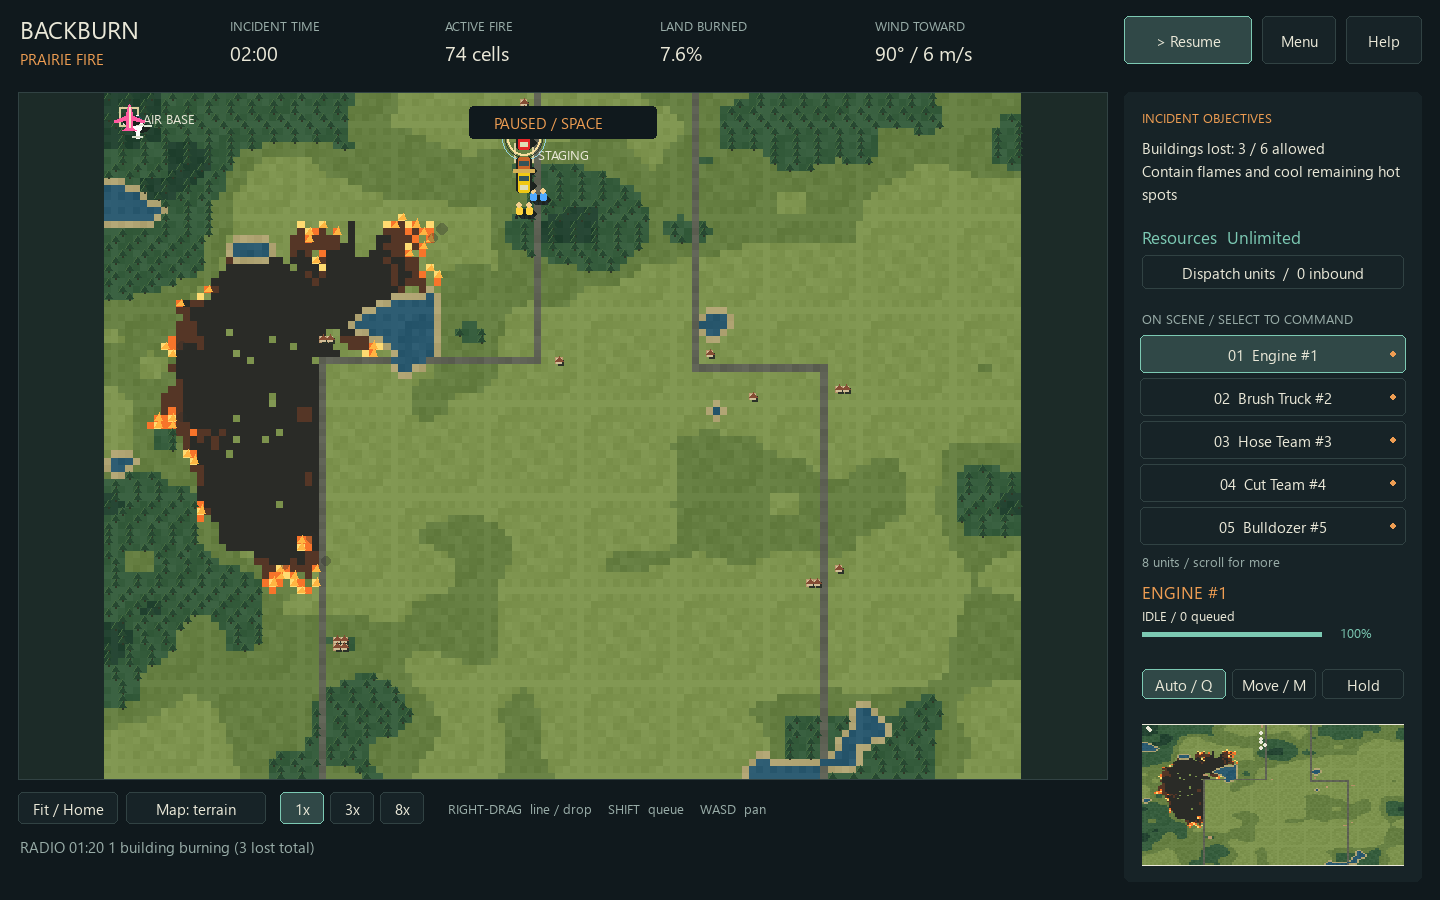
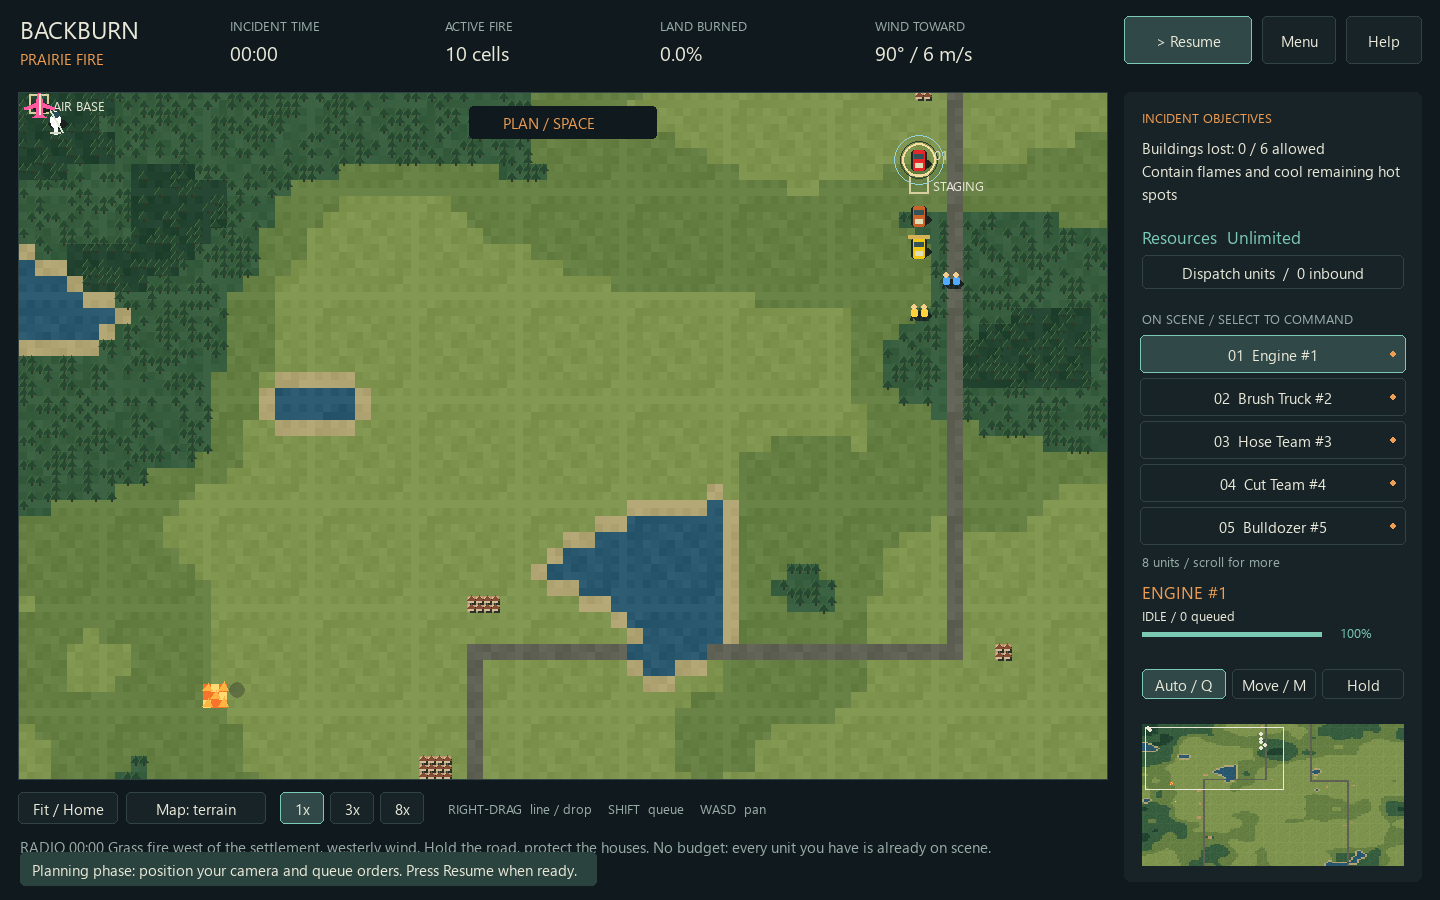
Give players planning time, stable trees and larger maps (#8)
* Slow incident pacing, keep trees anchored and expand tactical maps

* Cull off-screen scenery before drawing expanded maps

---------

diff --git a/backburn/game.py b/backburn/game.py
@@ -13,6 +13,7 @@ import pygame
 
 from . import __version__
 from .art import details, terrain_surface, unit_icon
+from .campaign import expanded_scenario
 from .config import TERRAIN, UNITS
 from .render import OVERLAYS
 from .scenario import load_scenario
@@ -27,6 +28,7 @@ INK = (234, 232, 216)
 MUTED = (153, 173, 168)
 ORANGE = (238, 157, 82)
 TEAL = (124, 201, 179)
+NORMAL_TICKS_PER_SECOND = 1
 MISSIONS = ["prairie_fire", "stranded_hikers", "refinery_row", "wall_of_fire"]
 DESCRIPTIONS = [
     "Hold the road. Protect the settlement.",
@@ -63,7 +65,9 @@ class Game:
         self.page = "menu"
         self.modal = None
         self.mission = 0
-        self.scenarios = [load_scenario(scenario_dir() / f"{key}.json") for key in MISSIONS]
+        self.scenarios = [
+            expanded_scenario(load_scenario(scenario_dir() / f"{key}.json")) for key in MISSIONS
+        ]
         self.previews = [terrain_surface(Simulation(s)) for s in self.scenarios]
         self.settings = read_json(data_dir() / "settings.json", {"sound": True})
         self.progress = read_json(data_dir() / "progress.json", {})
@@ -146,6 +150,23 @@ class Game:
         self.zoom = min(self.viewport.w / g.w, self.viewport.h / g.h)
         self.cam = [(g.w - self.viewport.w / self.zoom) / 2, (g.h - self.viewport.h / self.zoom) / 2]
 
+    def tactical_camera(self):
+        self.zoom = 8.0
+        x, y = self.sim.world.staging
+        if self.sim.scenario.ignitions:
+            fire = min(self.sim.scenario.ignitions, key=lambda p: math.hypot(p["x"] - x, p["y"] - y))
+            x, y = (x + fire["x"]) / 2, (y + fire["y"]) / 2
+        self.cam = [x - self.viewport.w / self.zoom / 2, y - self.viewport.h / self.zoom / 2]
+        self.clamp_camera()
+
+    def clamp_camera(self):
+        for axis, (size, visible) in enumerate(
+            ((self.sim.grid.w, self.viewport.w / self.zoom), (self.sim.grid.h, self.viewport.h / self.zoom))
+        ):
+            self.cam[axis] = (
+                (size - visible) / 2 if visible >= size else min(size - visible, max(0, self.cam[axis]))
+            )
+
     def to_screen(self, x, y):
         return (
             round(self.viewport.x + (x + 0.5 - self.cam[0]) * self.zoom),
@@ -162,7 +183,9 @@ class Game:
         return (min(self.sim.grid.w - 1, max(0, p[0])), min(self.sim.grid.h - 1, max(0, p[1])))
 
     def start(self, sandbox=False):
-        self.sim = Simulation(load_scenario(scenario_dir() / f"{MISSIONS[self.mission]}.json"))
+        self.sim = Simulation(
+            expanded_scenario(load_scenario(scenario_dir() / f"{MISSIONS[self.mission]}.json"))
+        )
         self.sandbox = sandbox
         if sandbox:
             self.sim.scenario.objectives = {"win_on_contained": False}
@@ -181,7 +204,7 @@ class Game:
         self.editor_tool = None
         self.order_mode = "AUTO"
         self.overlay = 0
-        self.fit()
+        self.tactical_camera()
 
     def save(self, name="quicksave.bbsave"):
         try:
@@ -220,7 +243,8 @@ class Game:
             self.start(True)
         elif action == "begin":
             self.modal = None
-            self.paused = False
+            self.paused = True
+            self.say("Planning phase: position your camera and queue orders. Press Resume when ready.")
         elif action == "close":
             self.modal = None
         elif action == "pause":
@@ -636,10 +660,12 @@ class Game:
             self.viewport.h / self.zoom / self.sim.grid.h * self.minimap.h,
         )
         pygame.draw.rect(self.screen, INK, vr, 1)
-        for u in roster:
+        for u in self.sim.world.units:
+            if not u.alive or u.rescued or u.state == ABOARD:
+                continue
             pygame.draw.circle(
                 self.screen,
-                INK,
+                ORANGE if u.is_civilian else INK,
                 (
                     round(self.minimap.x + u.x / self.sim.grid.w * self.minimap.w),
                     round(self.minimap.y + u.y / self.sim.grid.h * self.minimap.h),
@@ -672,7 +698,7 @@ class Game:
             )
         if self.paused and not self.modal:
             pygame.draw.rect(self.screen, BG, (self.viewport.centerx - 94, 106, 188, 33), border_radius=4)
-            self.text("PAUSED / SPACE", self.viewport.centerx - 69, 112, 15, ORANGE)
+            self.text("PLAN / SPACE", self.viewport.centerx - 60, 112, 15, ORANGE)
 
     def draw_modal(self):
         if not self.modal:
@@ -698,7 +724,7 @@ class Game:
                 else "Select a unit in the roster. Right-click to move or attack. Right-drag a line with crews to cut a firebreak, or with aircraft to drop water. Pause any time to plan."
             )
             self.wrap(tip, x, max(bottom + 25, y + 275), 644, 17)
-            self.button("BEGIN OPERATION / ENTER", (x, rect.bottom - 78, 652, 46), "begin", True)
+            self.button("OPEN MAP TO PLAN / ENTER", (x, rect.bottom - 78, 652, 46), "begin", True)
         elif self.modal == "help":
             self.text("FIELD GUIDE", x, y, 32)
             lines = [
@@ -801,11 +827,12 @@ class Game:
         self.cam[0] += (keys[pygame.K_d] - keys[pygame.K_a]) * dt * 350 / self.zoom
         self.cam[1] += (keys[pygame.K_s] - keys[pygame.K_w]) * dt * 350 / self.zoom
         if not self.paused and self.sim.outcome == RUNNING:
-            self.acc += min(dt, 0.1) * 6 * self.speed
+            self.acc += min(dt, 0.1) * NORMAL_TICKS_PER_SECOND * self.speed
             n = int(self.acc)
             if n:
                 self.sim.step(n)
                 self.acc -= n
+        self.clamp_camera()
         if self.sim.tick - self.auto_tick >= 180:
             try:
                 save_game(self.sim, "autosave.bbsave")

diff --git a/backburn/art.py b/backburn/art.py
@@ -49,32 +49,47 @@ def terrain_surface(sim, overlay=None):
     return pygame.surfarray.make_surface(np.transpose(rgb, (1, 0, 2)))
 
 
+def tree_cells(terrain, state):
+    """A tree's location depends only on its cell, never the count of surviving trees."""
+    ys, xs = np.indices(terrain.shape)
+    placement = ((xs * 73) ^ (ys * 151)) % 5 < 2
+    return np.nonzero(placement & ((terrain == T.FOREST) | (terrain == T.DENSE_FOREST)) & (state == 0))
+
+
 def details(screen, sim, to_screen, zoom, viewport, clock):
     g = sim.grid
+
+    def visible(ys, xs):
+        # Transform and cull in NumPy; avoid Python work for off-screen map cells.
+        ox, oy = to_screen(0, 0)
+        sx = np.rint(ox + xs * zoom).astype(int)
+        sy = np.rint(oy + ys * zoom).astype(int)
+        margin = zoom * 3
+        mask = (
+            (sx >= viewport.left - margin)
+            & (sx <= viewport.right + margin)
+            & (sy >= viewport.top - margin)
+            & (sy <= viewport.bottom + margin)
+        )
+        return zip(xs[mask].tolist(), ys[mask].tolist(), sx[mask].tolist(), sy[mask].tolist())
+
     if zoom >= 5:
-        ys, xs = np.nonzero(((g.terrain == T.FOREST) | (g.terrain == T.DENSE_FOREST)) & (g.state == 0))
-        for x, y in zip(xs[::3], ys[::3]):
-            sx, sy = to_screen(x, y)
-            if not viewport.collidepoint(sx, sy):
-                continue
-            r = max(2, int(zoom * 0.65))
+        ys, xs = tree_cells(g.terrain, g.state)
+        r = max(2, int(zoom * 0.65))
+        for _, _, sx, sy in visible(ys, xs):
             pygame.draw.line(screen, (47, 56, 39), (sx, sy), (sx, sy + r), 2)
             pygame.draw.polygon(
                 screen, (39, 72, 49), [(sx, sy - r), (sx - r, sy + r // 2), (sx + r, sy + r // 2)]
             )
             pygame.draw.line(screen, (69, 107, 64), (sx, sy - r), (sx - r, sy + r // 2))
         ys, xs = np.nonzero((g.terrain == T.STRUCTURE) & (g.state == 0))
-        for x, y in zip(xs, ys):
-            sx, sy = to_screen(x, y)
+        for _, _, sx, sy in visible(ys, xs):
             r = max(2, int(zoom * 0.45))
             pygame.draw.rect(screen, (43, 49, 40), (sx - r + 2, sy - r + 2, r * 2, r * 2))
             pygame.draw.rect(screen, (209, 190, 151), (sx - r, sy - r, r * 2, r * 2))
             pygame.draw.polygon(screen, (132, 76, 52), [(sx - r - 1, sy), (sx, sy - r - 2), (sx + r + 1, sy)])
     ys, xs = np.nonzero(g.state == BURNING)
-    for x, y in zip(xs[::2], ys[::2]):
-        sx, sy = to_screen(x, y)
-        if not viewport.collidepoint(sx, sy):
-            continue
+    for x, y, sx, sy in visible(ys[::2], xs[::2]):
         r = max(2, int(zoom * 0.65))
         rise = int((clock * 12 + x * 3 + y) % 10)
         pygame.draw.polygon(

diff --git a/tests/test_pacing.py b/tests/test_pacing.py
@@ -1,0 +1,58 @@
+import numpy as np
+
+from backburn.art import tree_cells
+from backburn.campaign import expanded_scenario
+from backburn.config import TerrainType
+from backburn.game import Game, scenario_dir
+from backburn.scenario import load_scenario
+from backburn.sim import Simulation
+
+
+def test_trees_keep_their_positions_when_other_trees_burn():
+    terrain = np.full((32, 32), int(TerrainType.FOREST), dtype=np.uint8)
+    state = np.zeros_like(terrain)
+    before = set(zip(*tree_cells(terrain, state)))
+    removed = sorted(before)[9]
+    state[removed] = 1
+    after = set(zip(*tree_cells(terrain, state)))
+    assert after == before - {removed}
+
+
+def test_expanded_mission_retains_geography_and_rescue_is_winnable():
+    source = load_scenario(scenario_dir() / "stranded_hikers.json")
+    expanded = expanded_scenario(source)
+    assert (expanded.width, expanded.height) == (192, 144)
+    assert np.array_equal(expanded.build_terrain()[::2, ::2], source.build_terrain())
+    sim = Simulation(expanded)
+    heli = sim.world.units[0]
+    for civilian in sim.world.civilians():
+        sim.cmd_order(heli.uid, "PICKUP", unit_id=civilian.uid, queue=True)
+    sim.cmd_order(heli.uid, "DROPOFF", target=sim.world.safe_zone[:2], queue=True)
+    sim.step(600)
+    assert sim.civilian_counts()["rescued"] == 4
+    assert sim.outcome == "contained"
+
+
+def test_normal_speed_and_camera_start_allow_preparation(tmp_path, monkeypatch):
+    import pygame
+
+    monkeypatch.setenv("SDL_VIDEODRIVER", "dummy")
+    monkeypatch.setenv("SDL_AUDIODRIVER", "dummy")
+    monkeypatch.setenv("BACKBURN_DATA_DIR", str(tmp_path))
+    game = Game()
+    try:
+        game.start()
+        game.act("begin")
+        for _ in range(600):
+            game.update(1 / 60)
+        assert game.sim.tick == 0
+        assert game.viewport.w / game.zoom < game.sim.grid.w
+        assert game.viewport.h / game.zoom < game.sim.grid.h
+        game.act("pause")
+        for _ in range(600):
+            game.update(1 / 60)
+        assert 9 <= game.sim.tick <= 10
+        game.fit()
+        assert game.sim.grid.w * game.zoom <= game.viewport.w + 1
+    finally:
+        pygame.quit()

diff --git a/backburn/campaign.py b/backburn/campaign.py
@@ -1,0 +1,33 @@
+"""Desktop mission layouts preserve the prototype geography at a larger scale."""
+
+import numpy as np
+
+from .scenario import Scenario
+
+
+def expanded_scenario(source: Scenario, scale: int = 2) -> Scenario:
+    scenario = Scenario.from_dict(source.to_dict())
+    scenario.terrain_mode = "grid"
+    scenario.terrain_grid = np.repeat(np.repeat(source.build_terrain(), scale, axis=0), scale, axis=1)
+    scenario.height, scenario.width = scenario.terrain_grid.shape
+    elevation = source.build_elevation()
+    if elevation is not None:
+        scenario.elevation = {
+            "mode": "grid",
+            "rows": np.repeat(np.repeat(elevation, scale, axis=0), scale, axis=1).tolist(),
+        }
+    scenario.airbase = tuple(v * scale for v in source.airbase)
+    if source.staging:
+        scenario.staging = tuple(v * scale for v in source.staging)
+    if source.safe_zone:
+        scenario.safe_zone = tuple(v * scale for v in source.safe_zone)
+    scenario.units = [{**u, "x": u["x"] * scale, "y": u["y"] * scale} for u in source.units]
+    scenario.ignitions = [{**ig, "x": ig["x"] * scale, "y": ig["y"] * scale} for ig in source.ignitions]
+    scenario.events = []
+    for event in source.events:
+        event = dict(event)
+        for key in ("ignite", "spawn"):
+            if key in event:
+                event[key] = {k: v * scale if k in ("x", "y") else v for k, v in event[key].items()}
+        scenario.events.append(event)
+    return scenario

diff --git a/tests/test_game.py b/tests/test_game.py
@@ -30,8 +30,13 @@ def test_mission_selection_and_deployment_by_mouse(game):
     game.update(1)
     assert game.sim.tick == 0
     game.handle(pygame.event.Event(pygame.KEYDOWN, key=pygame.K_RETURN))
-    game.update(0.1)
-    game.update(0.1)
+    assert game.paused
+    for _ in range(20):
+        game.update(0.1)
+    assert game.sim.tick == 0
+    game.handle(pygame.event.Event(pygame.KEYDOWN, key=pygame.K_SPACE))
+    for _ in range(12):
+        game.update(0.1)
     assert game.sim.tick > 0
 
 
@@ -42,7 +47,7 @@ def test_ui_order_clamps_map_edges_and_save_load_restores(game):
     game.issue(game.clamp_point((-100, -30)), game.clamp_point((999, 999)))
     order = game.sim.world.by_id(4).orders[0]
     assert order.kind == "CUT"
-    assert order.points == [(0, 0), (127, 95)]
+    assert order.points == [(0, 0), (255, 191)]
     game.sim.step(3)
     game.save()
     before = game.sim.state_hash()

diff --git a/backburn/__init__.py b/backburn/__init__.py
@@ -24,4 +24,4 @@ __all__ = [
     "FAILED",
     "TIMEOUT",
 ]
-__version__ = "0.3.0"
+__version__ = "0.3.1"

diff --git a/docs/RELEASE_NOTES.md b/docs/RELEASE_NOTES.md
@@ -1,3 +1,12 @@
+## Backburn v0.3.1 — planning time and larger maps
+
+- Normal speed now advances one simulation second per real second, six times slower than v0.3.0.
+- Every new incident opens paused so you can inspect the terrain and queue orders before resuming.
+- Tree positions stay fixed when other trees burn; surviving trees no longer reshuffle.
+- Desktop maps are twice as wide and tall, preserving the original geography and objectives.
+- The camera starts at tactical zoom near staging and the fire. WASD, wheel zoom, Home and the minimap navigate the larger map.
+- Civilian markers are now visible on the minimap. Old saves retain their original map dimensions.
+
 ## Backburn v0.3.0 — first desktop demo
 
 An original top-down wildfire tactics game, built from the supplied v0.2 simulation.

diff --git a/DECISIONS.md b/DECISIONS.md
@@ -22,7 +22,7 @@ second simulation implementation, and supports standalone PyInstaller packaging.
 The Godot folder is an archived port experiment, not the current shipping engine.
 The earlier engine choices below describe the prototype's original plan.
 
-The desktop runs six fixed simulation ticks per real second at normal speed;
+As of v0.3.1 the desktop runs one fixed simulation tick per real second at normal speed;
 the older tuning harness retains ten. Each tick still represents one simulated
 second, so replays and balance remain deterministic. Pausing supports planning.
 

diff --git a/README.md b/README.md
@@ -45,6 +45,10 @@ This is a game, not an operational wildfire model. Balance is experimental.
 | Dispatch / help / overlay | B / H / O |
 | Save / load / export replay | F6 / F7 / F5 |
 
+Incidents open paused for planning. Normal speed is one simulation second per real second.
+Maps extend beyond the initial camera view; use WASD, the wheel or the minimap to explore,
+and Home for an overview.
+
 Start with Stranded Hikers for a short rescue mission, or Prairie Fire to use the full fleet.
 
 ## Development
